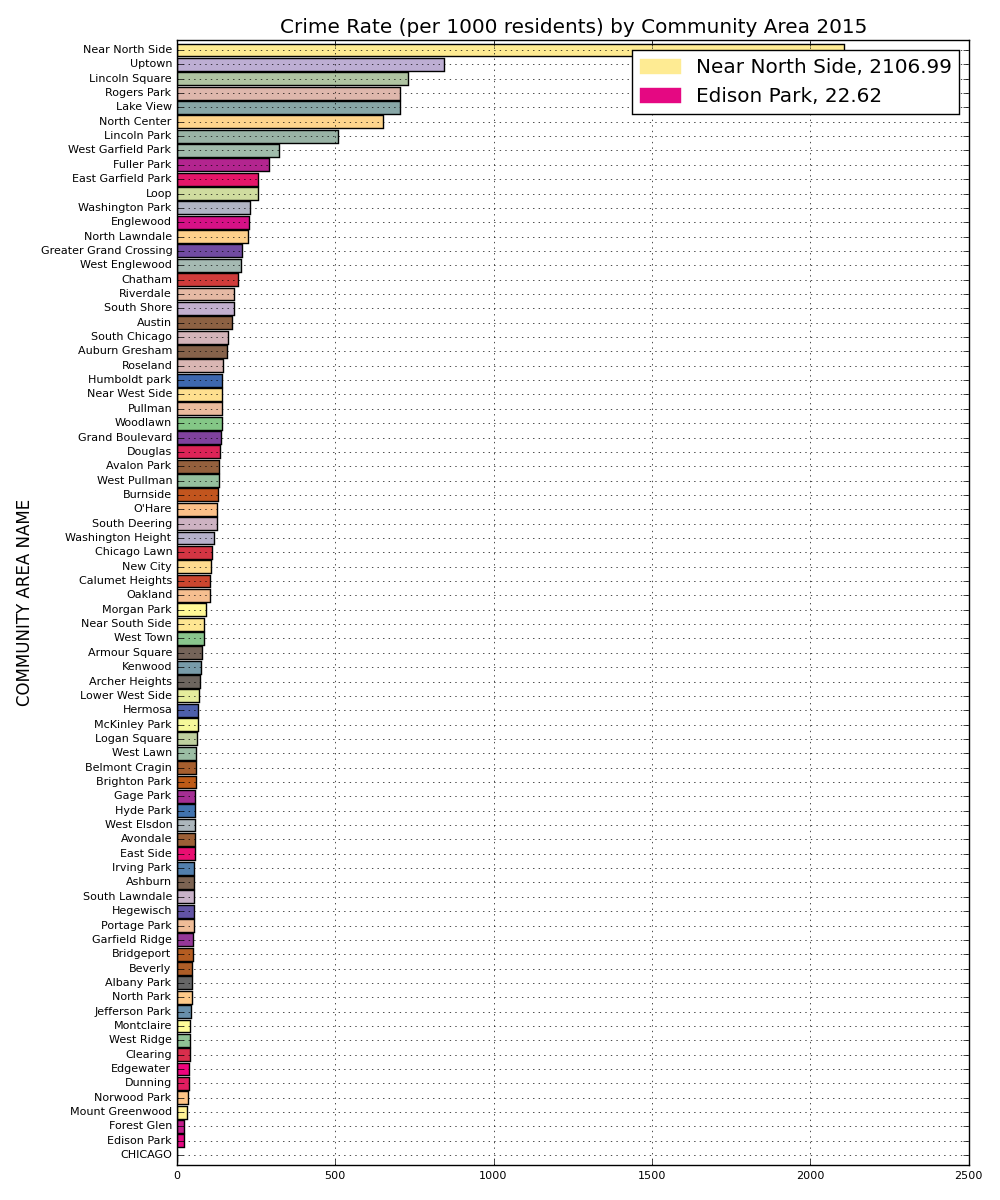
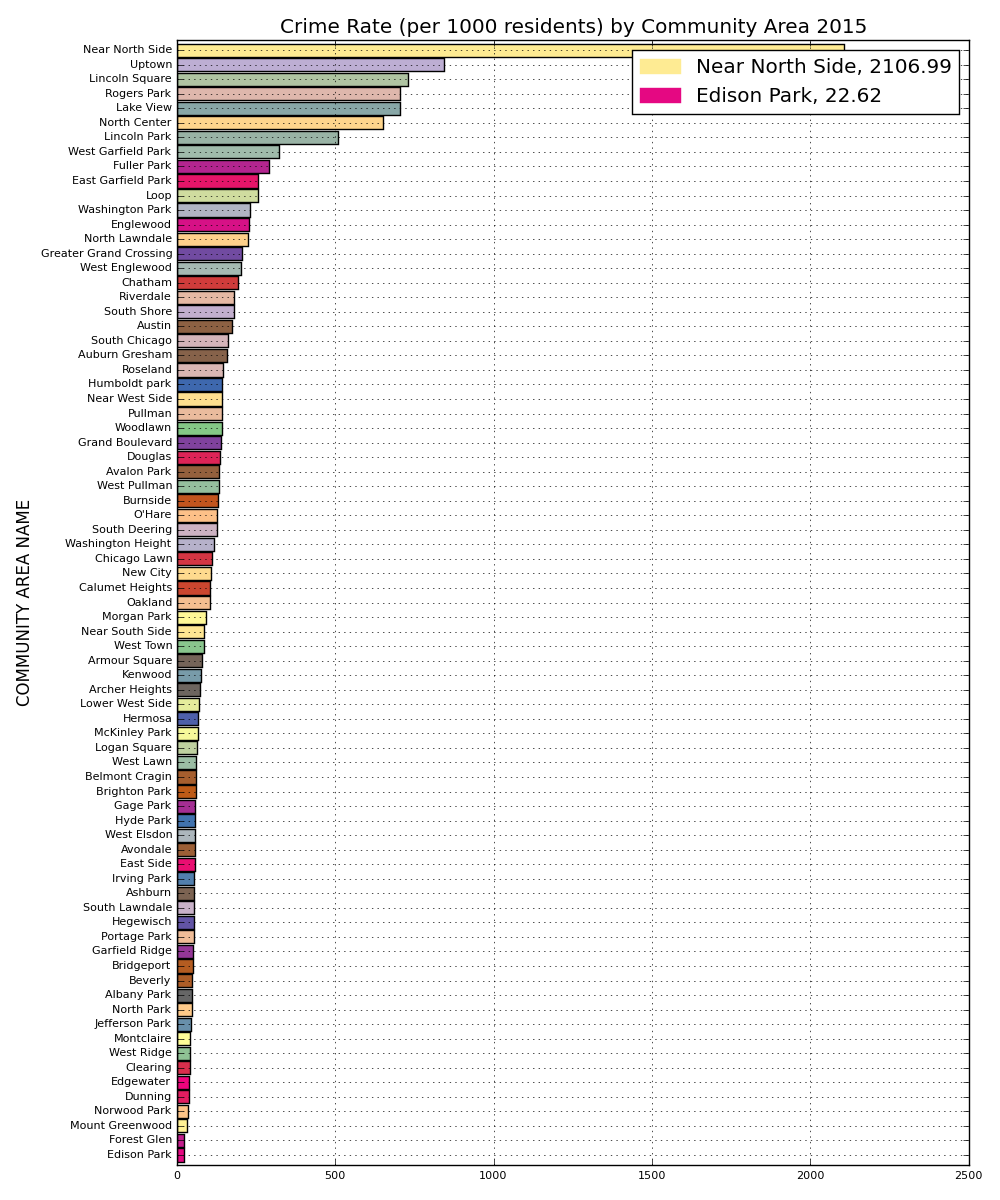
PA2 Fixed Rate indices

Changed region(s): [[0.031, 0.0308, 0.62, 0.9867]]

diff --git a/pa2/pa2.py b/pa2/pa2.py
@@ -377,7 +377,8 @@ chi.MakeCommunities()
 # Which Community Area (by name) has the highest crime count. The lowest?
 cnames = chi.crimeses[cname].unique().tolist()
 community_crime_count = chi.crimeses.groupby(cname)['ID'].agg('count').copy()
-community_crime_count.sort(ascending=False)
+community_crime_count = pd.DataFrame({'Crime Count' :community_crime_count})
+community_crime_count.sort_values('Crime Count', ascending=False, inplace=True)
 print('1. a) Community Area Crime Counts:\n\tHighest: {} ({}),\n\tLowest: {} ({})'.
      format(community_crime_count.index[0],
             community_crime_count[0],
@@ -429,7 +430,7 @@ interesting_places = ['Hyde Park', 'South Chicago',
 
 daily_table = chi.crimeses[['ID', cname, 'Day']].copy()
 table = pd.pivot_table(daily_table, columns=cname, index=['Day'], aggfunc='count')
-print table.to_string(na_rep ='')
+# print table.to_string(na_rep ='')
 daily_table = daily_table[daily_table[cname].isin(interesting_places)]
 table = pd.pivot_table(daily_table, columns=cname, index=['Day'], aggfunc='count')
 print table.to_string(na_rep ='')
@@ -598,12 +599,13 @@ missing_populations = {'Edison Park' : 11187, 'Edgewater' : 56521, 'West Ridge' 
 
 # (b) Calculate the total population in each Community Area.
 geo_sum = geo.groupby(cname)[block_pop].aggregate('sum')
-geo_sum= pd.DataFrame({'community_pop': geo_sum})
+geo_sum= pd.DataFrame({'community_pop': geo_sum, cname: geo_sum.index})
 for com in missing_communities:
-    newf = pd.DataFrame({'community_pop' : pd.Series([missing_populations[com]], index=[com])})
-    geo_sum = geo_sum.append(newf)
+    newf = pd.DataFrame({'community_pop' : pd.Series([missing_populations[com]], index=[com]), cname:com})
+    geo_sum = geo_sum.append(newf, ignore_index=True)
 
 geo_sum.sort_values(by=community_pop, ascending=False, inplace=True)
+geo_sum.set_index(cname, inplace=True)
 
 # Plot community populations
 fig, ax= plt.subplots(figsize=(10,12))
@@ -613,6 +615,7 @@ doc = 'population_bycommunity.png'
 community_colors_list = []
 proxy_patches = []
 proxy_labels = []
+
 for n in geo_sum.index:
     community_colors_list.append(chi.get_community(n).color)
     if n in interesting_places:
@@ -621,10 +624,10 @@ for n in geo_sum.index:
                             int(geo_sum[geo_sum.index==n][community_pop].mean())))
         proxy_patches.append(proxy_patch)
 
-xs = np.arange(geo_sum.size)
 w = 0.9
+
 geo_sum.plot(kind='barh', width=w, fontsize=8, title=t, legend=False,
-                           grid=True, color=community_colors_list, ax=ax)
+             grid=True, color=community_colors_list, ax=ax)
 plt.legend(proxy_patches, proxy_labels)
 plt.gca().invert_yaxis()
 plt.gcf().tight_layout()
@@ -642,9 +645,7 @@ fig.savefig(doc)
 rate = 'crime_rate'
 ccount = 'Crime Count'
 com_ob = 'Community Object'
-geo_full = geo.merge(geo_sum, left_on=cname, right_index=True, how='outer')
-geo_full = geo_full[[cname, com_id, 'community', community_pop]]
-dem_crime_map = dem_crime.merge(geo_full, on=cname, how='outer')
+dem_crime_map = dem_crime.merge(geo_sum, left_on=cname, right_index=True)
 dem_crime_map[rate] = dem_crime_map[ccount] / (dem_crime_map[community_pop] / 1000)
 dem_crime_map[com_ob] = dem_crime_map[cname].apply(chi.get_community)
 
@@ -669,7 +670,6 @@ for n in community_crime_rate.index:
                             community_crime_rate[community_crime_rate.index==n].mean()))
         proxy_patches.append(proxy_patch)
 
-xs = np.arange(community_crime_rate.size)
 w = 0.9
 community_crime_rate.plot(kind='barh', width=w, fontsize=8,
                            grid=True, color=community_colors_list)
